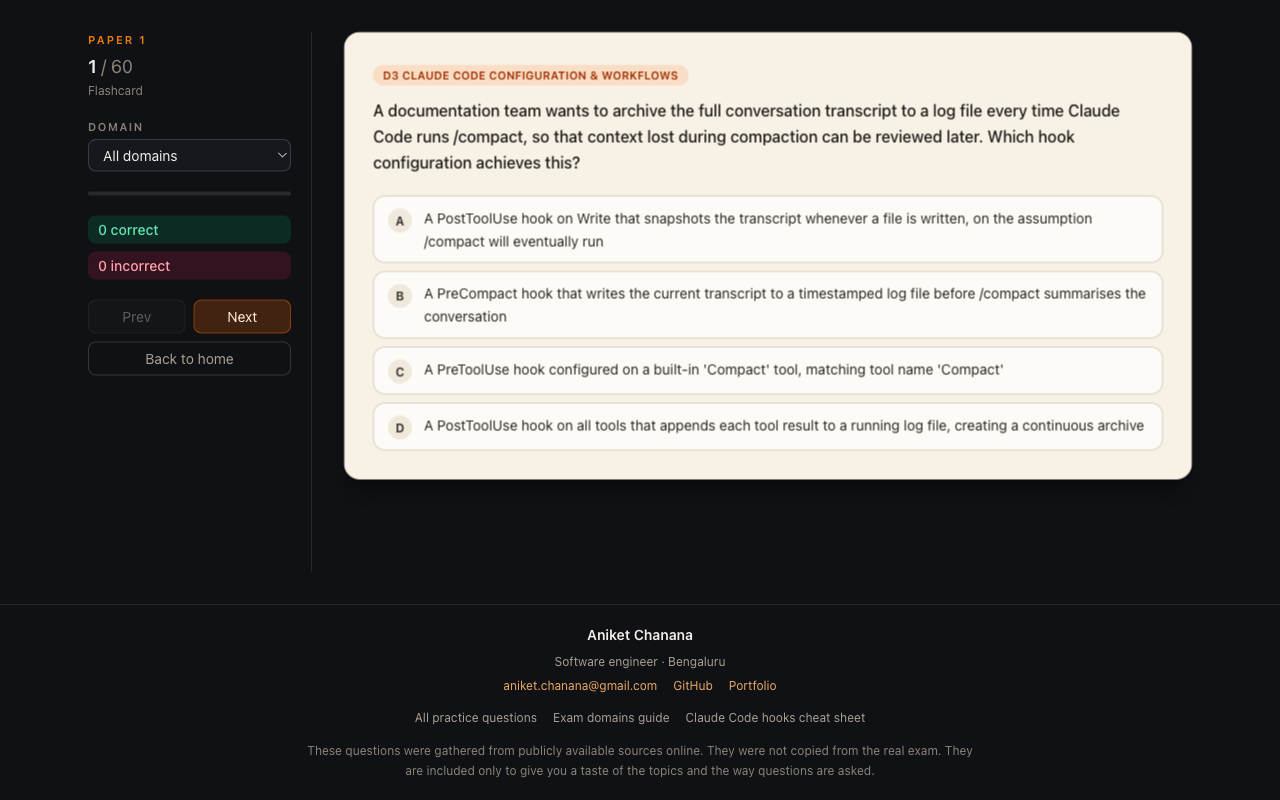
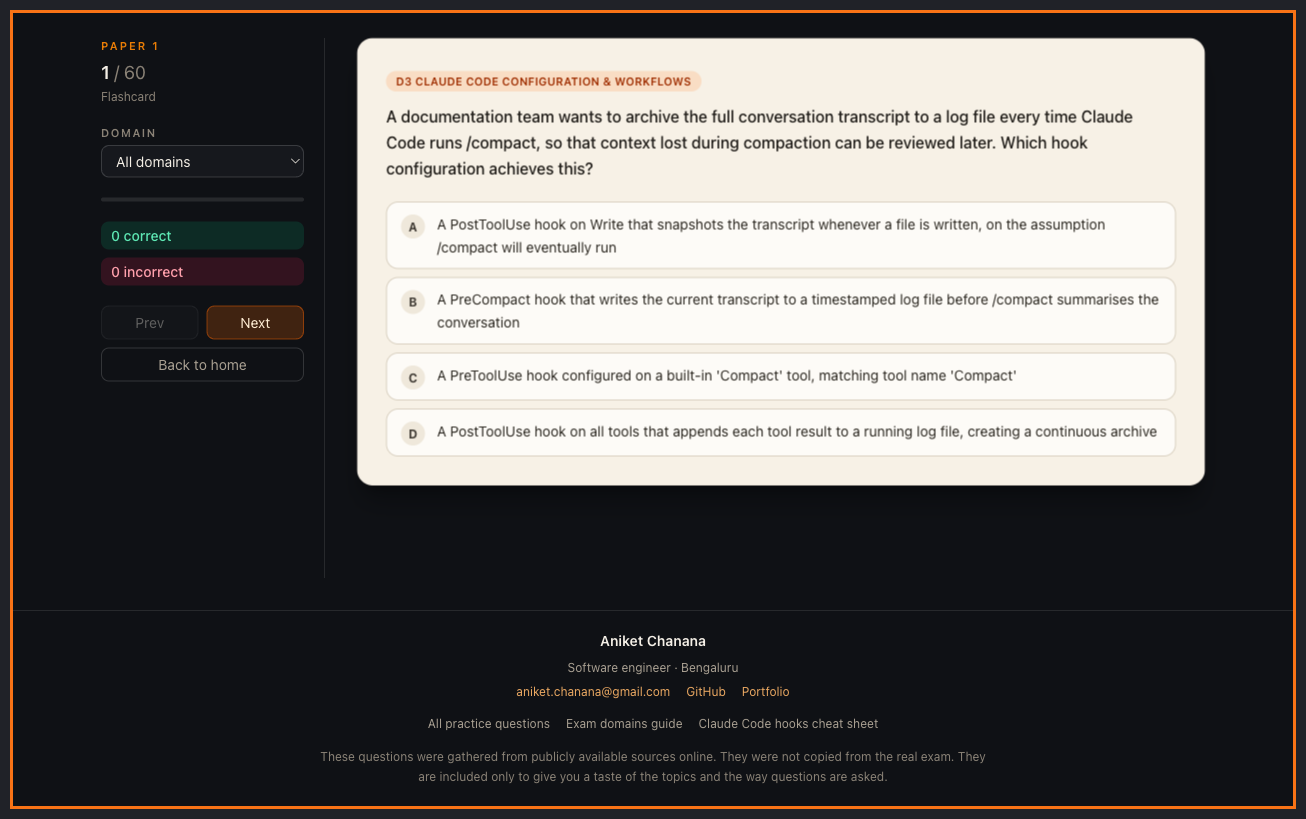
Fix README screenshot preview with a clearer JPEG asset.
The PNG path rendered poorly in some previews; use an HTML image embed pointing at a clean JPEG so the flashcard UI shows reliably.

diff --git a/README.md b/README.md
@@ -4,7 +4,11 @@ Free practice questions for the **Claude Certified Architect – Foundations** c
 
 **Live app:** [https://aniketchanana.github.io/claudecertificationfoundation/](https://aniketchanana.github.io/claudecertificationfoundation/)
 
-[![CCARF Practice Exam flashcard UI](./public/app-screenshot.png)](https://aniketchanana.github.io/claudecertificationfoundation/)
+<p align="center">
+  <a href="https://aniketchanana.github.io/claudecertificationfoundation/">
+    <img src="public/app-screenshot.jpg" alt="CCARF Practice Exam flashcard UI" width="900" />
+  </a>
+</p>
 
 If this helps you prepare, star the repo so other learners can find it.
 
